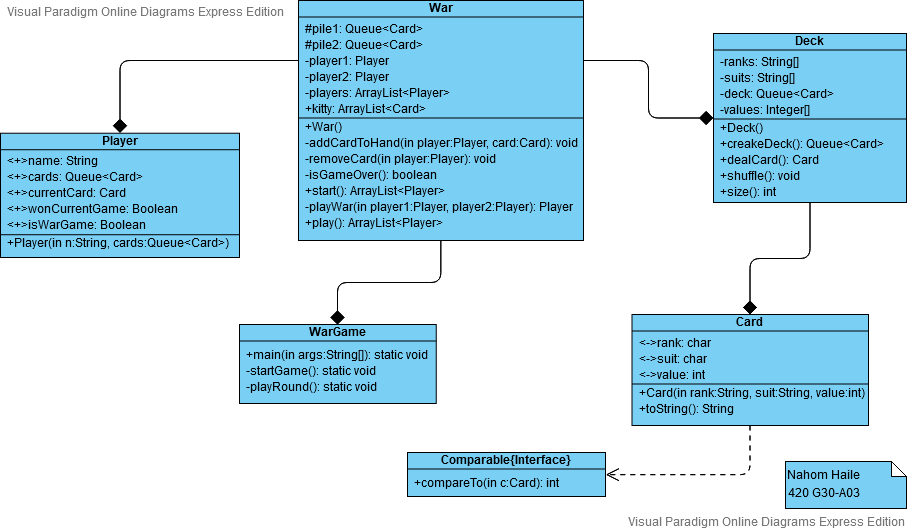
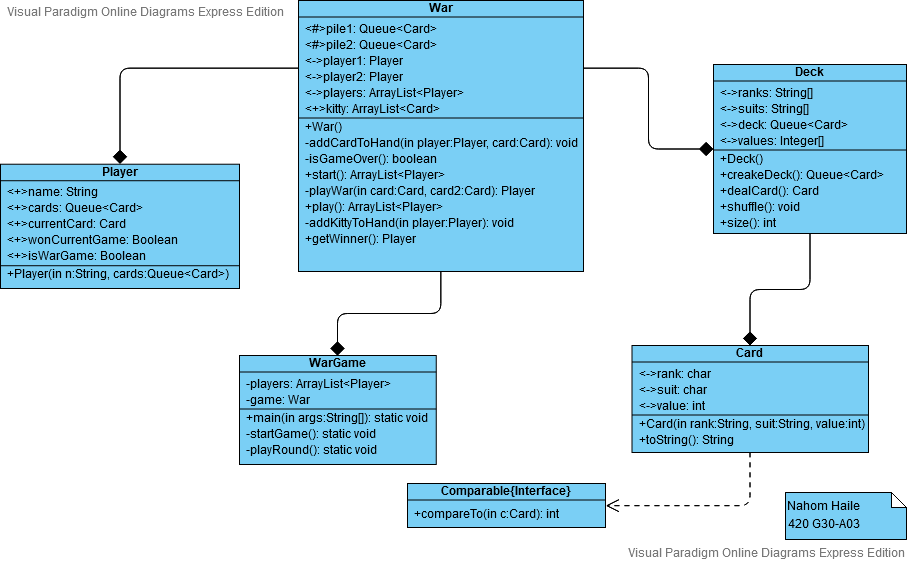
Updates

diff --git a/G30_A03_Stacks_Queues_War/src/War.java b/G30_A03_Stacks_Queues_War/src/War.java
@@ -16,6 +16,54 @@ public class War {
 		pile2 = new ArrayDeque<Card>();
 		players = new ArrayList<Player>();
 		kitty = new ArrayList<Card>();
+	}	
+
+	public Queue<Card> getPile1() {
+		return pile1;
+	}
+
+	public void setPile1(Queue<Card> pile1) {
+		this.pile1 = pile1;
+	}
+
+	public Queue<Card> getPile2() {
+		return pile2;
+	}
+
+	public void setPile2(Queue<Card> pile2) {
+		this.pile2 = pile2;
+	}
+
+	public Player getPlayer1() {
+		return player1;
+	}
+
+	public void setPlayer1(Player player1) {
+		this.player1 = player1;
+	}
+
+	public Player getPlayer2() {
+		return player2;
+	}
+
+	public void setPlayer2(Player player2) {
+		this.player2 = player2;
+	}
+
+	public ArrayList<Player> getPlayers() {
+		return players;
+	}
+
+	public void setPlayers(ArrayList<Player> players) {
+		this.players = players;
+	}
+
+	public ArrayList<Card> getKitty() {
+		return kitty;
+	}
+
+	public void setKitty(ArrayList<Card> kitty) {
+		this.kitty = kitty;
 	}
 
 	public ArrayList<Player> start() {
@@ -28,7 +76,7 @@ public class War {
 		}
 
 		player1 = new Player("Nahom", pile1);
-		player2 = new Player("Serge", pile2);
+		player2 = new Player("Ibrahim", pile2);
 
 		players.add(player1);
 		players.add(player2);
@@ -108,4 +156,4 @@ public class War {
 		}
 	}
 
-}
+} // War class

diff --git a/G30_A03_Stacks_Queues_War/src/Deck.java b/G30_A03_Stacks_Queues_War/src/Deck.java
@@ -11,6 +11,38 @@ public class Deck {
 	public Deck() {
 		deck = new ArrayDeque<Card>();
 		createDeck();
+	}	
+
+	public String[] getRanks() {
+		return ranks;
+	}
+
+	public void setRanks(String[] ranks) {
+		this.ranks = ranks;
+	}
+	
+	public String[] getSuits() {
+		return suits;
+	}
+
+	public void setSuits(String[] suits) {
+		this.suits = suits;
+	}
+
+	public Integer[] getValues() {
+		return values;
+	}
+
+	public void setValues(Integer[] values) {
+		this.values = values;
+	}
+
+	public Queue<Card> getDeck() {
+		return deck;
+	}
+
+	public void setDeck(Queue<Card> deck) {
+		this.deck = deck;
 	}
 
 	private Queue<Card> createDeck() {

diff --git a/G30_A03_Stacks_Queues_War/src/WarGame.java b/G30_A03_Stacks_Queues_War/src/WarGame.java
@@ -12,6 +12,7 @@ public class WarGame {
 
 	private static void startGame() {
 		Scanner input = new Scanner(System.in);
+		
 		game = new War();
 
 		ArrayList<Player> players = game.start();
